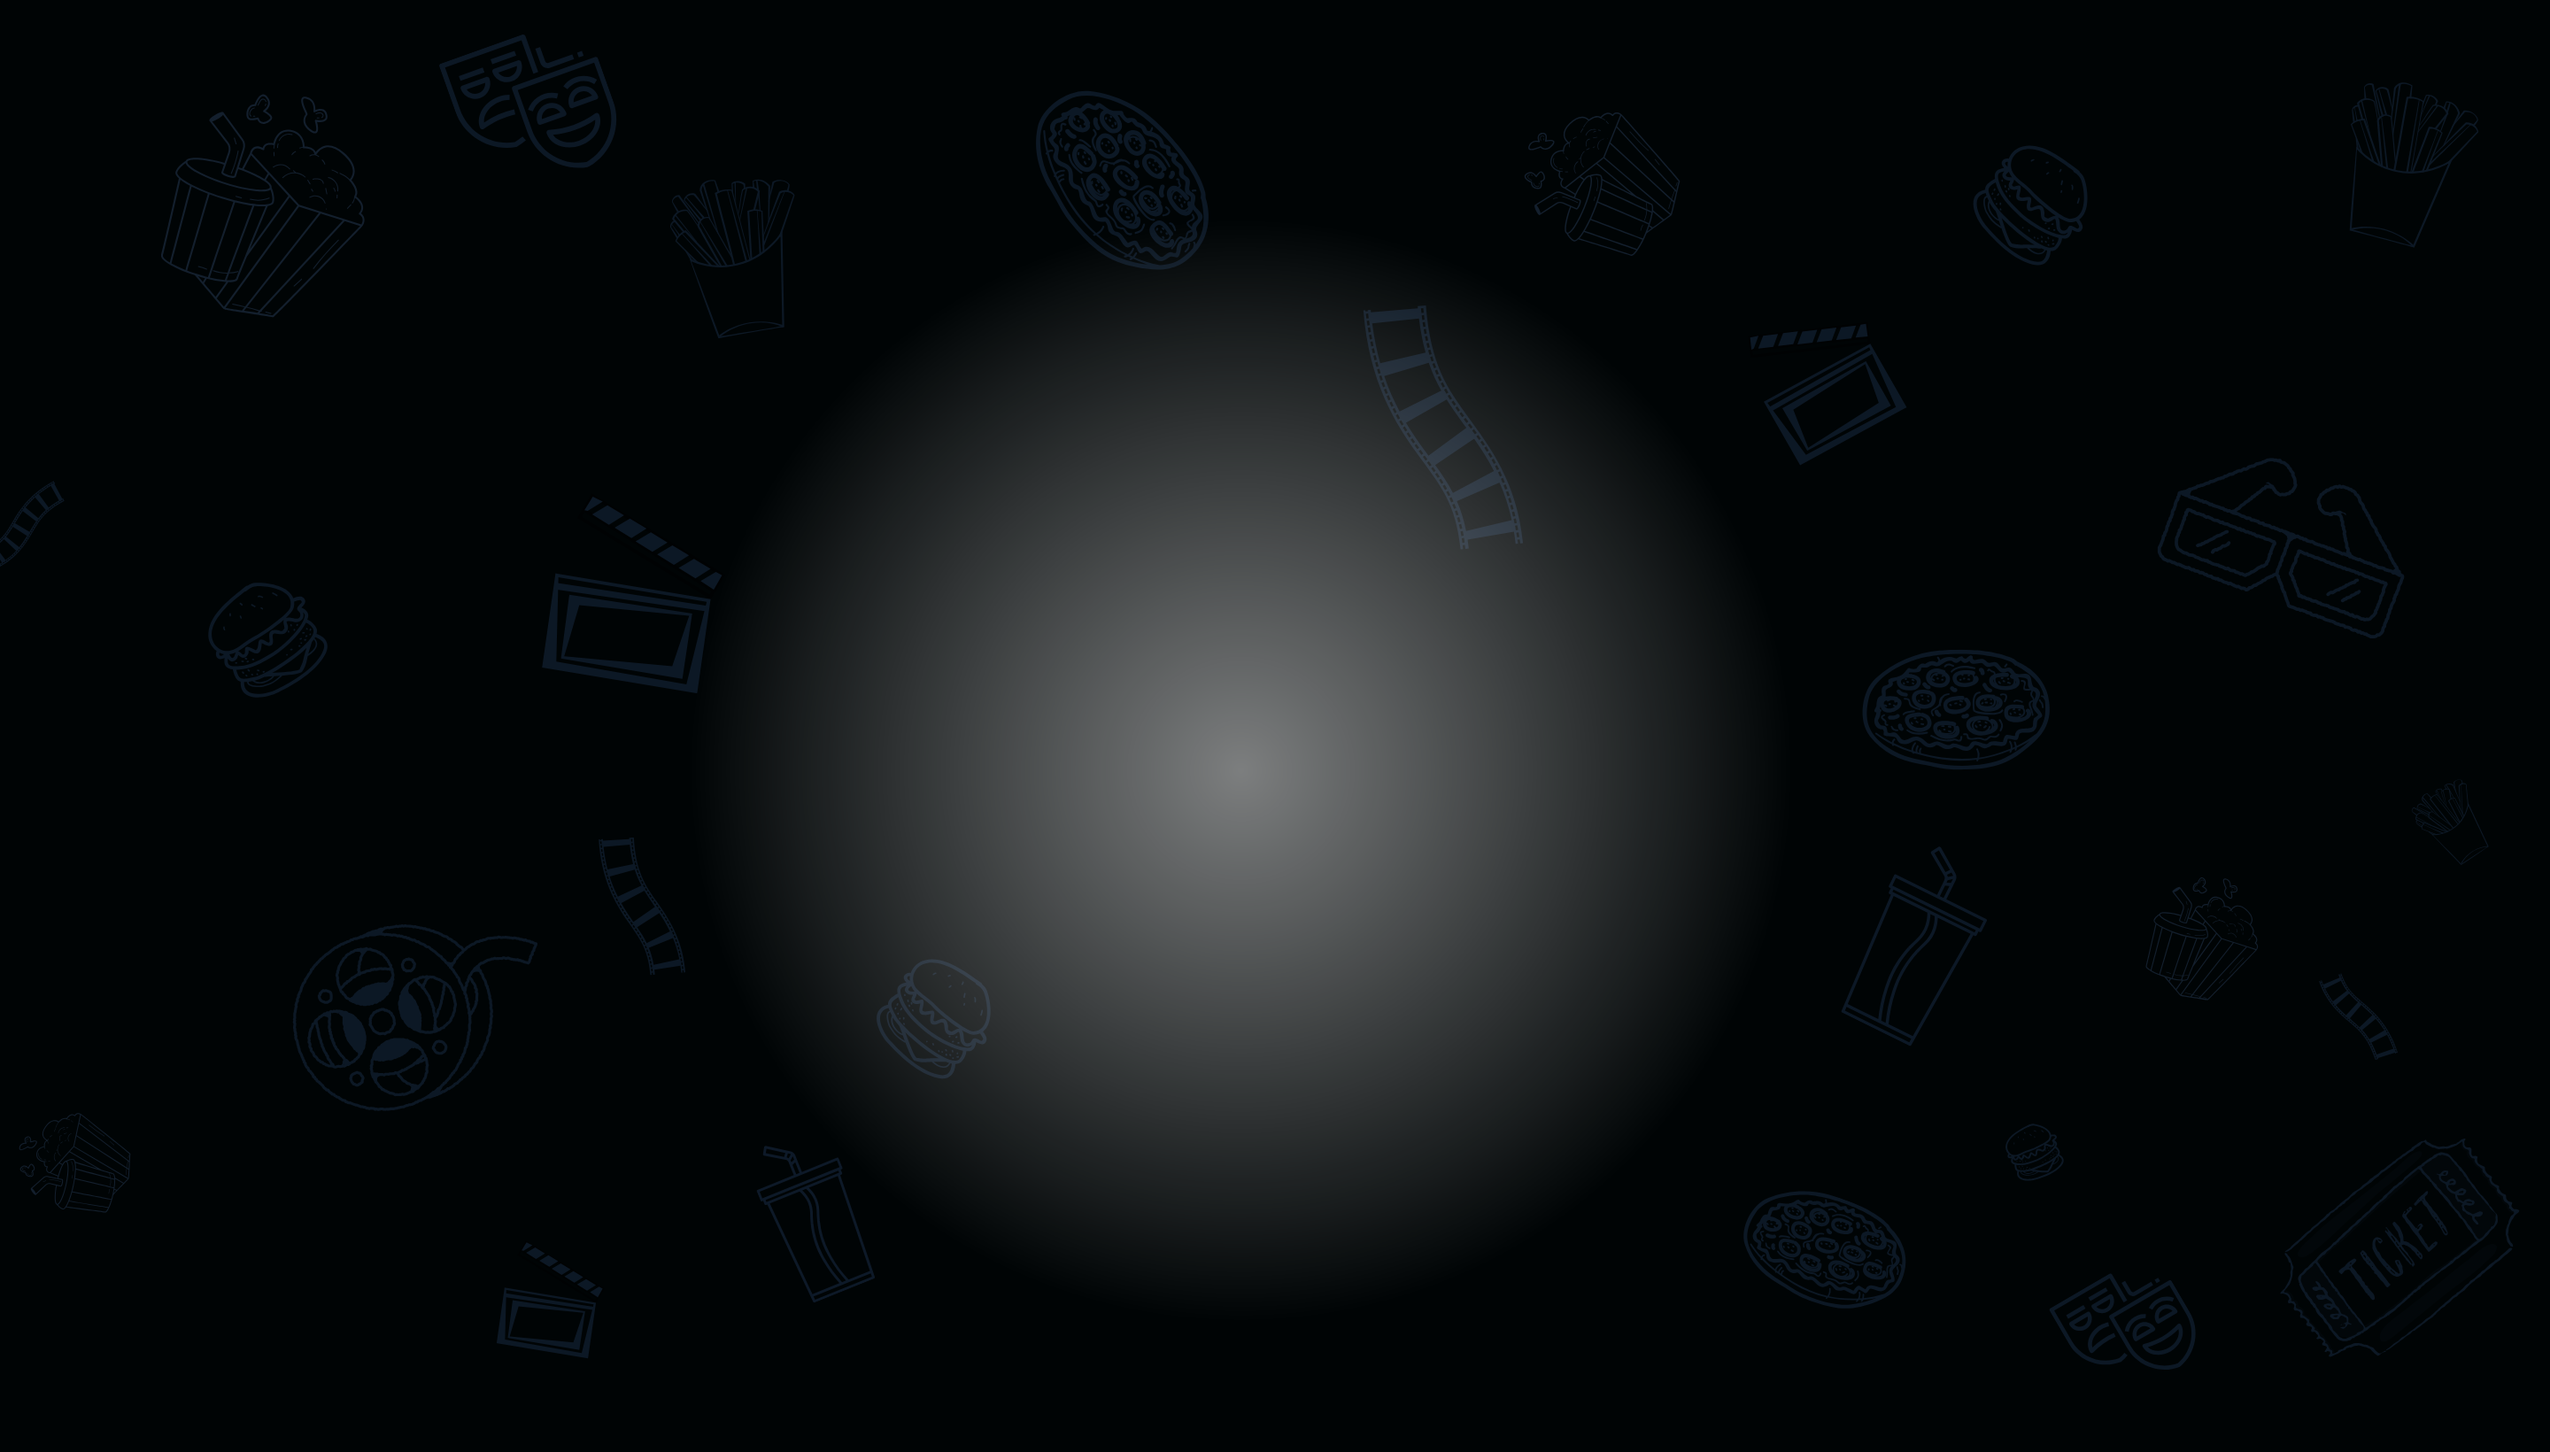
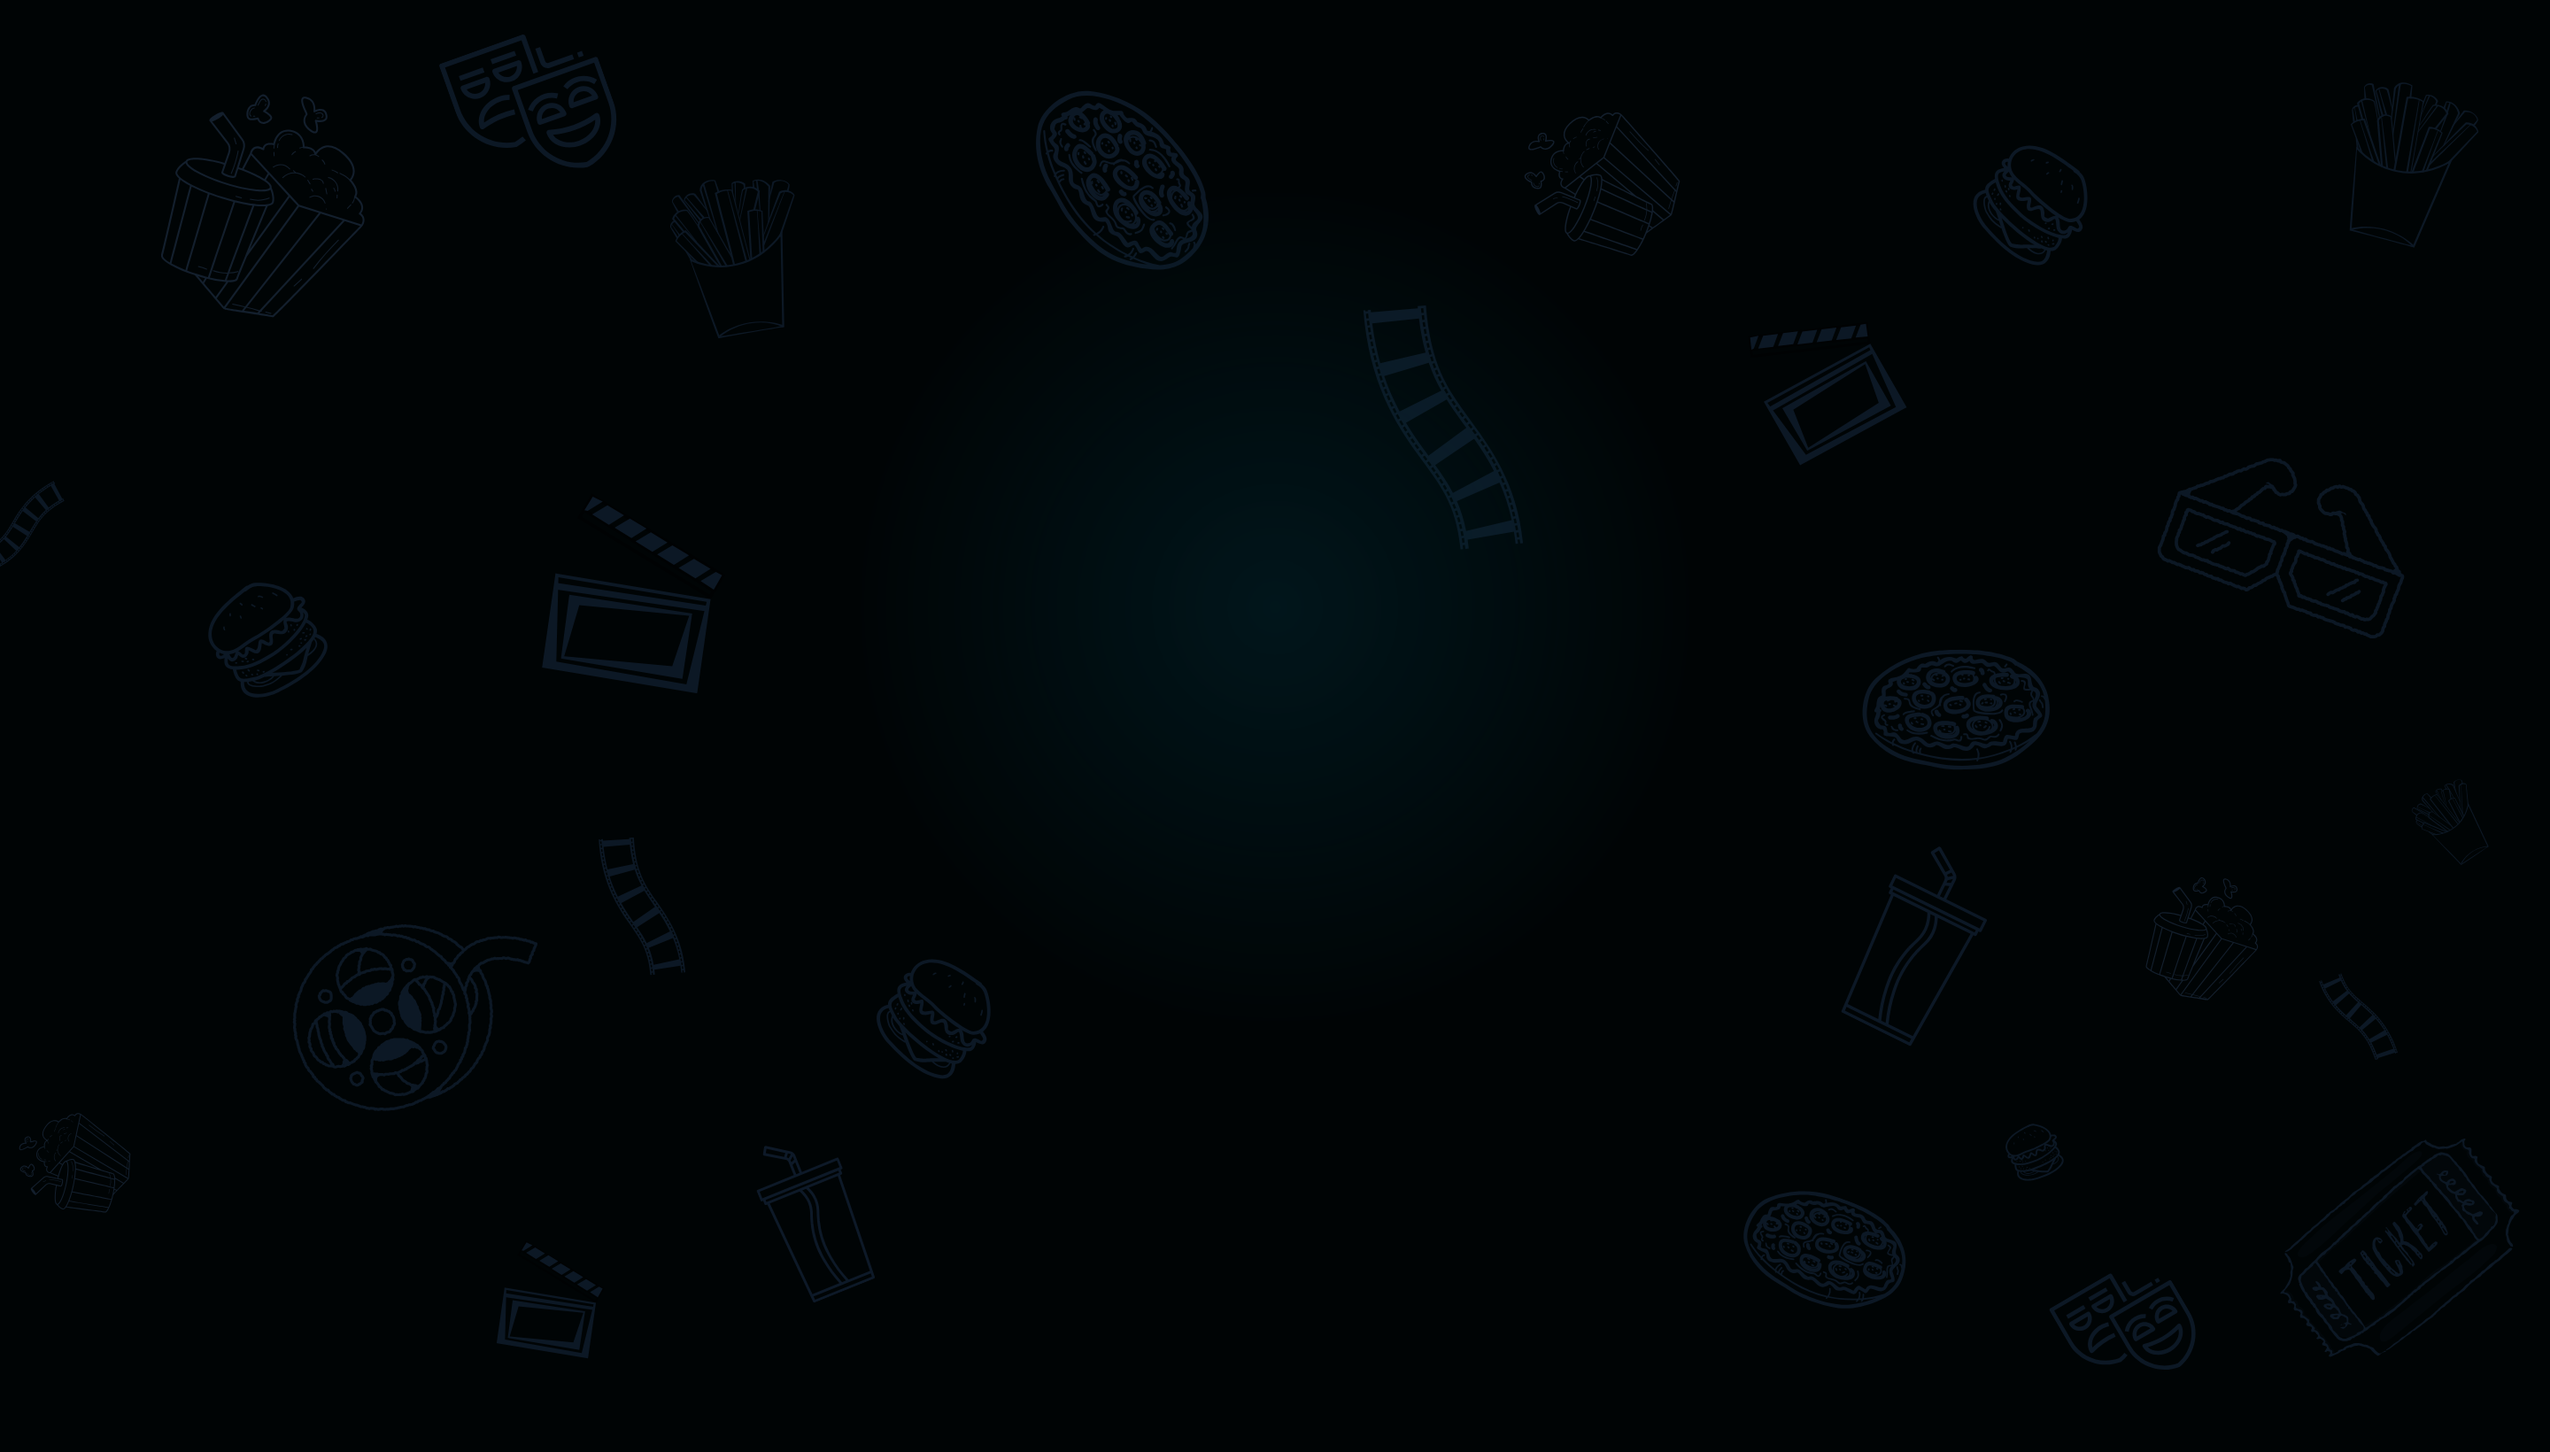
trending movies

Changed region(s): [[0.3125, 0.2177, 0.6875, 0.8396]]

diff --git a/src/index.css b/src/index.css
@@ -5,18 +5,12 @@
 
 @theme {
   --color-primary: #000405;
-
   --color-light-100: #cecefb;
   --color-light-200: #a8b5db;
-
   --color-gray-100: #9ca4ab;
-
-  --color-dark-100: #0f0d23;
-
+  --color-dark-100: #011014;
   --font-dm-sans: DM Sans, sans-serif;
-
   --breakpoint-xs: 480px;
-
   --background-image-hero-pattern: url("/hero-bg.png");
 }
 
@@ -103,7 +97,7 @@
 
   .movie-card {
     @apply bg-dark-100 p-5 rounded-2xl shadow-inner shadow-light-100/10;
-
+    
     & img {
       @apply rounded-lg h-auto w-full;
     }
@@ -143,7 +137,10 @@
 }
 
 @utility text-gradient {
-  @apply bg-linear-to-r from-[#D6C7FF] to-[#2b6979] bg-clip-text text-transparent;
+  @apply bg-linear-to-r from-[#D6C7FF] to-[#022832] bg-clip-text text-transparent;
+}
+@utility text-gradient1 {
+  @apply bg-linear-to-r from-[#022832] to-[#D6C7FF] bg-clip-text text-transparent;
 }
 
 @utility fancy-text {

diff --git a/src/App.jsx b/src/App.jsx
@@ -85,7 +85,7 @@ headers: {
       <div className="wrapper">
         <header>
           <img src="./hero.png" alt="Hero Banner" />
-          <h1>Find <span className='text-gradient'>Movies</span> You Enjo without the Hassle</h1>
+       <h1>Find <span className='text-gradient'>Movies</span> You Enjoy <br /> without the Hassle</h1>
          <Search searchTerm={searchTerm} setSearchTerm={setSearchTerm}/>
        </header>
 
